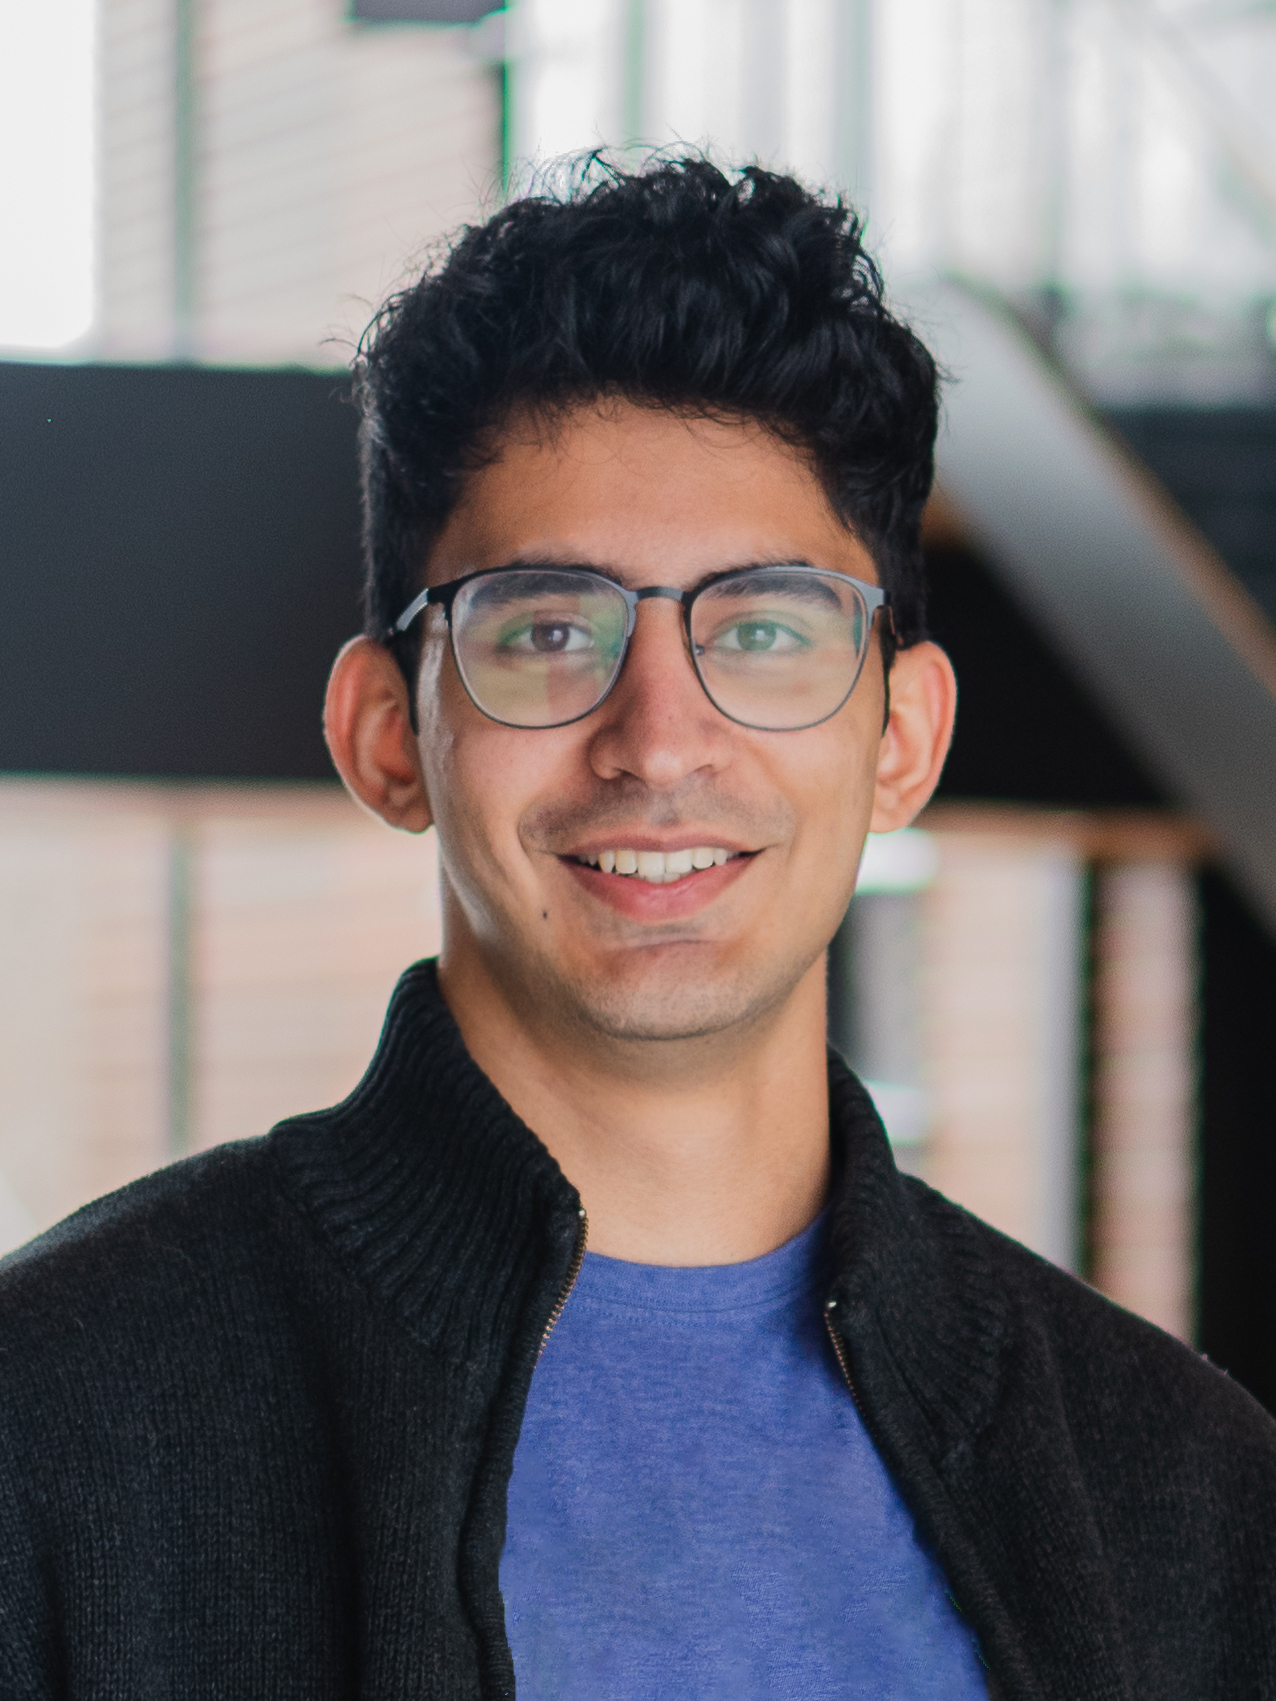
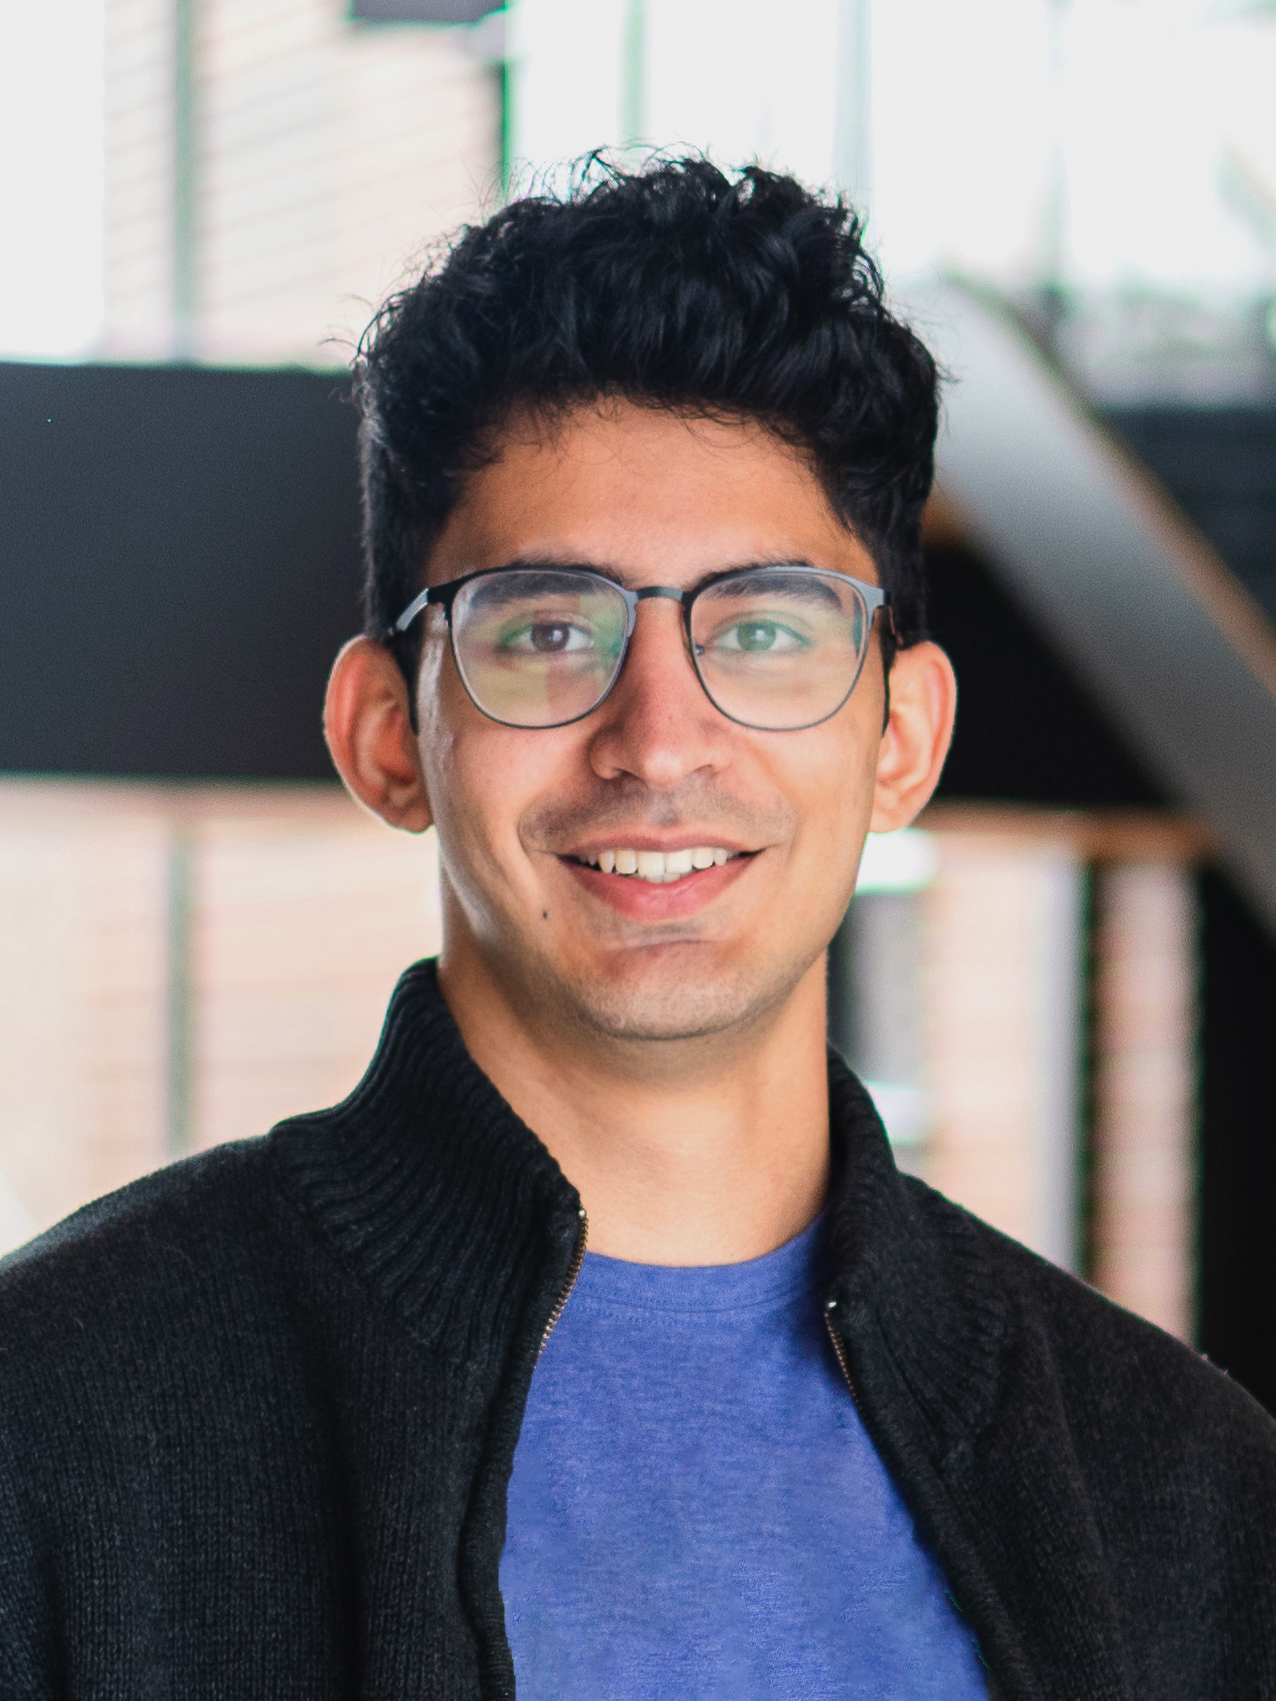
photo touch up

diff --git a/_posts/2020-08-31-backwards-reachability.md b/_posts/2020-08-31-backwards-reachability.md
@@ -1,7 +1,7 @@
 ---
 layout: redirect
 title: backwards reachability tutorial
-description: Using reachability analysis to determine/compute safety guarantees for control policies.
+description: Using reachability analysis to compute safety guarantees for safety critical dynamic systems.
 rurl: https://rvl.cs.toronto.edu/backwards-reachability/
 
 date: 2020-08-31
